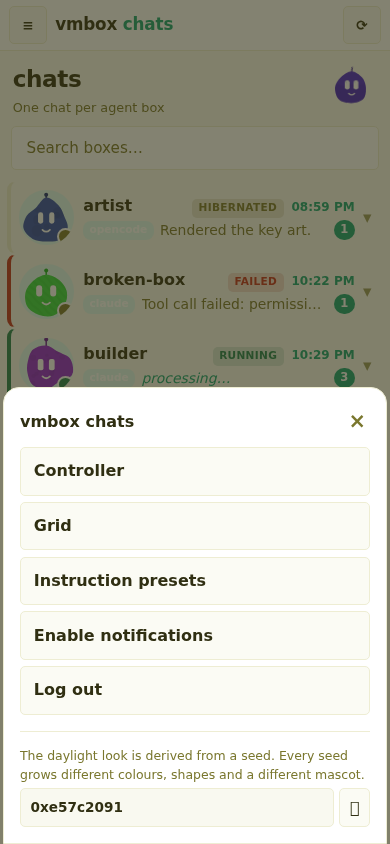
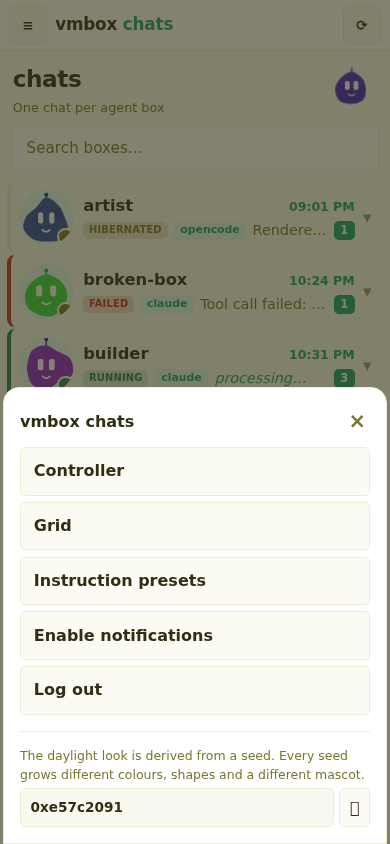
Improve chat list readability
Move the state pill out of the name row so names get full width and stop
truncating; give names and previews more weight/size. Fix the agent
badge, which was white-on-pale and nearly invisible, to dark accent on
soft accent, and hide the badge on very narrow screens. Refresh the
list screenshot.

diff --git a/internal/controller/web/chat.css b/internal/controller/web/chat.css
@@ -86,8 +86,8 @@ body{max-width:none;margin:0;padding:0;height:100%;
 #chat-entries li[data-state="starting"]{border-left-color:var(--warn)}
 #chat-entries li[data-state="muted"]{border-left-color:var(--line)}
 #chat-entries li.active{border-left-color:var(--accent)}
-.row-state{flex:none;font-size:.66rem;font-weight:800;letter-spacing:.03em;text-transform:uppercase;
-  padding:.1rem .4rem;border-radius:var(--radius-sm);color:var(--ink-soft);
+.row-state{flex:none;font-size:.62rem;font-weight:800;letter-spacing:.02em;text-transform:uppercase;
+  padding:.08rem .36rem;border-radius:var(--radius-sm);color:var(--ink-soft);
   background:color-mix(in srgb,var(--ink-soft) 16%,transparent)}
 #chat-entries li[data-state="running"] .row-state{color:var(--ok);background:color-mix(in srgb,var(--ok) 16%,transparent)}
 #chat-entries li[data-state="failed"] .row-state{color:var(--danger);background:color-mix(in srgb,var(--danger) 16%,transparent)}
@@ -107,16 +107,16 @@ body{max-width:none;margin:0;padding:0;height:100%;
 .avatar.preview-trigger{cursor:pointer}
 .chat-meta{flex:1;min-width:0}
 .chat-meta .row1{display:flex;align-items:baseline;gap:.5rem}
-.chat-meta .name{font-weight:700;font-size:1rem;overflow:hidden;text-overflow:ellipsis;white-space:nowrap;flex:1}
-.chat-meta time{font-size:.75rem;color:var(--ink-soft);flex:none}
+.chat-meta .name{font-weight:800;font-size:1.02rem;color:var(--ink);overflow:hidden;text-overflow:ellipsis;white-space:nowrap;flex:1;min-width:0}
+.chat-meta time{font-size:.78rem;color:var(--ink-soft);flex:none}
 .chat-meta time.recent{color:var(--accent);font-weight:700}
-.chat-meta .row2{display:flex;align-items:center;gap:.4rem;margin-top:.08rem}
-.chat-meta .preview{font-size:.87rem;color:var(--ink-soft);overflow:hidden;text-overflow:ellipsis;white-space:nowrap;flex:1}
+.chat-meta .row2{display:flex;align-items:center;gap:.4rem;margin-top:.1rem}
+.chat-meta .preview{font-size:.9rem;color:var(--ink-soft);overflow:hidden;text-overflow:ellipsis;white-space:nowrap;flex:1;min-width:0}
 .chat-meta .preview.streaming,.chat-meta .preview.processing{color:var(--accent);font-style:italic}
 .unread{flex:none;background:var(--accent);color:var(--accent-ink);font-size:.72rem;font-weight:800;
-  border-radius:1rem;min-width:1.3rem;text-align:center;padding:.08rem .38rem}
-.agent-badge{flex:none;font-size:.66rem;color:var(--accent-ink);background:var(--accent-soft);
-  border-radius:.5rem;padding:.1rem .4rem;font-weight:700}
+  border-radius:var(--radius-sm);min-width:1.3rem;text-align:center;padding:.08rem .38rem}
+.agent-badge{flex:none;font-size:.68rem;color:var(--accent);background:var(--accent-soft);
+  border-radius:var(--radius-sm);padding:.1rem .4rem;font-weight:800}
 
 #chat-main{position:absolute;inset:0;display:flex;flex-direction:column;min-width:0;min-height:0;
   background:var(--bg);transform:translateX(100%);transition:transform .24s cubic-bezier(.3,.8,.3,1);
@@ -555,6 +555,10 @@ body{max-width:none;margin:0;padding:0;height:100%;
  .msg{max-width:min(62%,32rem)}
 }
 @media (min-width:900px) and (max-width:1100px){
+ #list-mascot{display:none}
+}
+@media (max-width:360px){
+ .agent-badge{display:none}
  #list-mascot{display:none}
 }
 @media (max-width:640px){

diff --git a/internal/controller/web/chat.js b/internal/controller/web/chat.js
@@ -620,8 +620,8 @@
     chevron.onclick=event=>{event.stopPropagation();openRowMenu(box,{left:event.clientX,right:event.clientX,bottom:event.clientY,top:event.clientY})};
     row.oncontextmenu=event=>{event.preventDefault();openRowMenu(box,{left:event.clientX,right:event.clientX,bottom:event.clientY+4,top:event.clientY})};
     const meta=document.createElement('div');meta.className='chat-meta';
-    const r1=document.createElement('div');r1.className='row1';const name=document.createElement('span');name.className='name';name.textContent=box.name;const state=document.createElement('span');state.className='row-state';const time=document.createElement('time');r1.append(name,state,time);
-    const r2=document.createElement('div');r2.className='row2';const badge=document.createElement('span');badge.className='agent-badge';badge.textContent=box.defaultAgent||'agent';const preview=document.createElement('span');preview.className='preview';const unread=document.createElement('span');unread.className='unread';unread.hidden=true;r2.append(badge,preview,unread);
+    const r1=document.createElement('div');r1.className='row1';const name=document.createElement('span');name.className='name';name.textContent=box.name;const state=document.createElement('span');state.className='row-state';const time=document.createElement('time');r1.append(name,time);
+    const r2=document.createElement('div');r2.className='row2';const badge=document.createElement('span');badge.className='agent-badge';badge.textContent=box.defaultAgent||'agent';const preview=document.createElement('span');preview.className='preview';const unread=document.createElement('span');unread.className='unread';unread.hidden=true;r2.append(state,badge,preview,unread);
     meta.append(r1,r2);row.prepend(meta);row.append(chevron);
     row.onclick=()=>{location.hash='box='+box.id;openBox(box.id)};
     rows.set(box.id,row);
